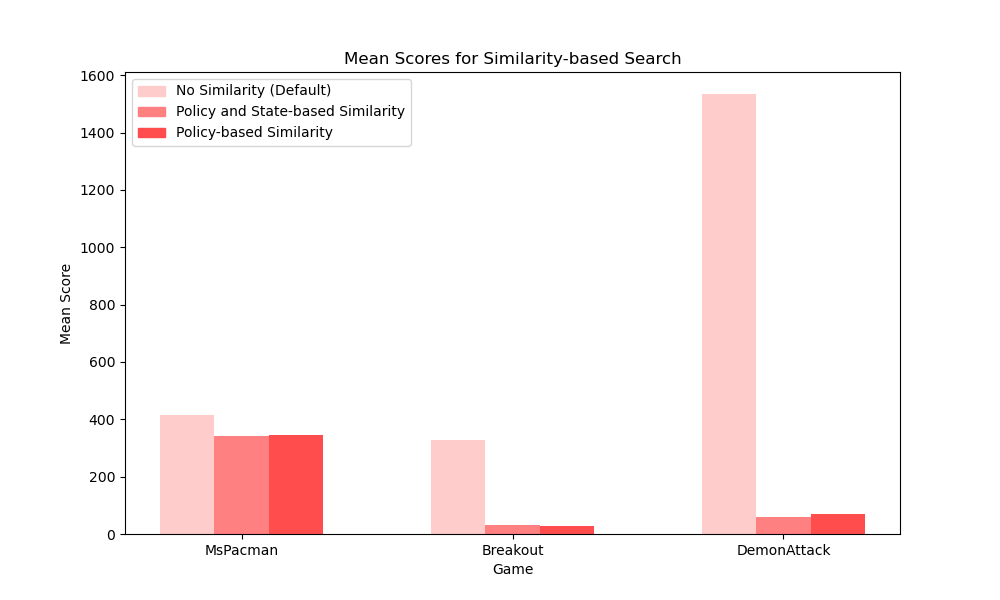
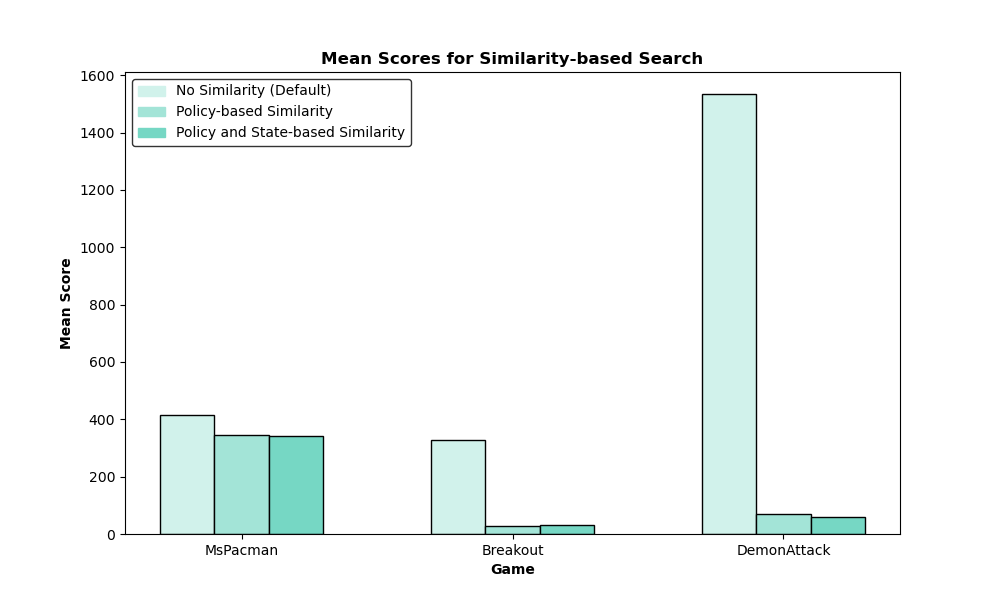
added borders, cleaned data, condensed plot for dynamic branching

diff --git a/result_plot.py b/result_plot.py
@@ -29,7 +29,7 @@ for title in sorted_data:
 
 # Plotting
 for title, scores in sorted_data.items():
-    group = sorted(scores['group'])
+    group = scores['group']
     games = scores['games']
     num_games = len(games)
     num_group = len(group)
@@ -42,23 +42,24 @@ for title, scores in sorted_data.items():
     
     plt.figure(figsize=(10, 6))
     x = range(num_group)
-    width = 0.2
+    width = 0.6 / num_group
     
     # Sort the mean scores for each game by increasing search paths
     sorted_scores = []
     for game, mean_scores in games.items():
-        sorted_scores.append(sorted(mean_scores, key=lambda x: x[0]))  # Sort by increasing search paths
+        # sorted_scores.append(sorted(mean_scores, key=lambda x: x[0]))  # Sort by increasing search paths
+        sorted_scores.append(mean_scores)
     
     # Plot Mean Scores for each game
     handles = []
     labels = []
 
     color_arrays = [
-        ['#BDFCC9', '#87EBA2', '#55D982', '#1EA457'],
-        ['#CCEBFF', '#80C1FF', '#4DA8FF', '#267EFF'],
-        ['#FFD6E7', '#FFA3C2', '#FF80A6', '#FF5480'],
-        ['#E8D7FF', '#BEA7FF', '#956DFF', '#6732FF'],
-        ['#FFCCCC', '#FF8080', '#FF4D4D', '#FF2626'],
+        ['#D1F2EB', '#A3E4D7', '#76D7C4', '#48C9B0', '#1ABC9C', '#17A589', '#148F77', '#117864', '#0E6251', '#0B5345'],
+        ['#D6EAF8', '#AED6F1', '#85C1E9', '#5DADE2', '#3498DB', '#2E86C1', '#2874A6', '#21618C', '#1B4F72', '#154360'],
+        ['#FADBD8', '#F5B7B1', '#F1948A', '#EC7063', '#E74C3C', '#CB4335', '#B03A2E', '#943126', '#78281F', '#641E16'],
+        ['#E8DAEF', '#D2B4DE', '#BB8FCE', '#A569BD', '#8E44AD', '#7D3C98', '#6C3483', '#5B2C6F', '#4A235A', '#1F618D'],
+        ['#FFCCCC', '#FF9999', '#FF6666', '#FF3333', '#FF0000', '#CC0000', '#990000', '#660000', '#330000', '#000000'],
     ]
 
     # Generate a random index
@@ -73,12 +74,12 @@ for title, scores in sorted_data.items():
 
         # print(f"Game: {game}, Group: {group}, Mean Score: {mean_scores}")
         x_pos = [(j * width) + i - offset for j in x]
-        handles.append(plt.bar(x_pos, mean_scores, width, color=colors))
+        handles.append(plt.bar(x_pos, mean_scores, width, color=colors, edgecolor='black', linewidth=1))
         labels.append(game)
     
-    plt.xlabel('Game')
-    plt.ylabel('Mean Score')
-    plt.title(f'Mean Scores for {title}')
+    plt.xlabel('Game', fontweight='bold')
+    plt.ylabel('Mean Score', fontweight='bold')
+    plt.title(f'Mean Scores for {title}', fontweight='bold')
     
     # Set x-axis labels and tick positions
     plt.xticks(range(num_games), games.keys())
@@ -88,7 +89,7 @@ for title, scores in sorted_data.items():
     # Create legend with search paths information
     if legend:
         legend_colors = [plt.Rectangle((0, 0), 1, 1, color=color) for color in colors]
-        plt.legend(legend_colors, group)
+        plt.legend(legend_colors, group, edgecolor='black')
         # plt.legend(legend_colors, group, title='Group')
     
     # Show the plot
